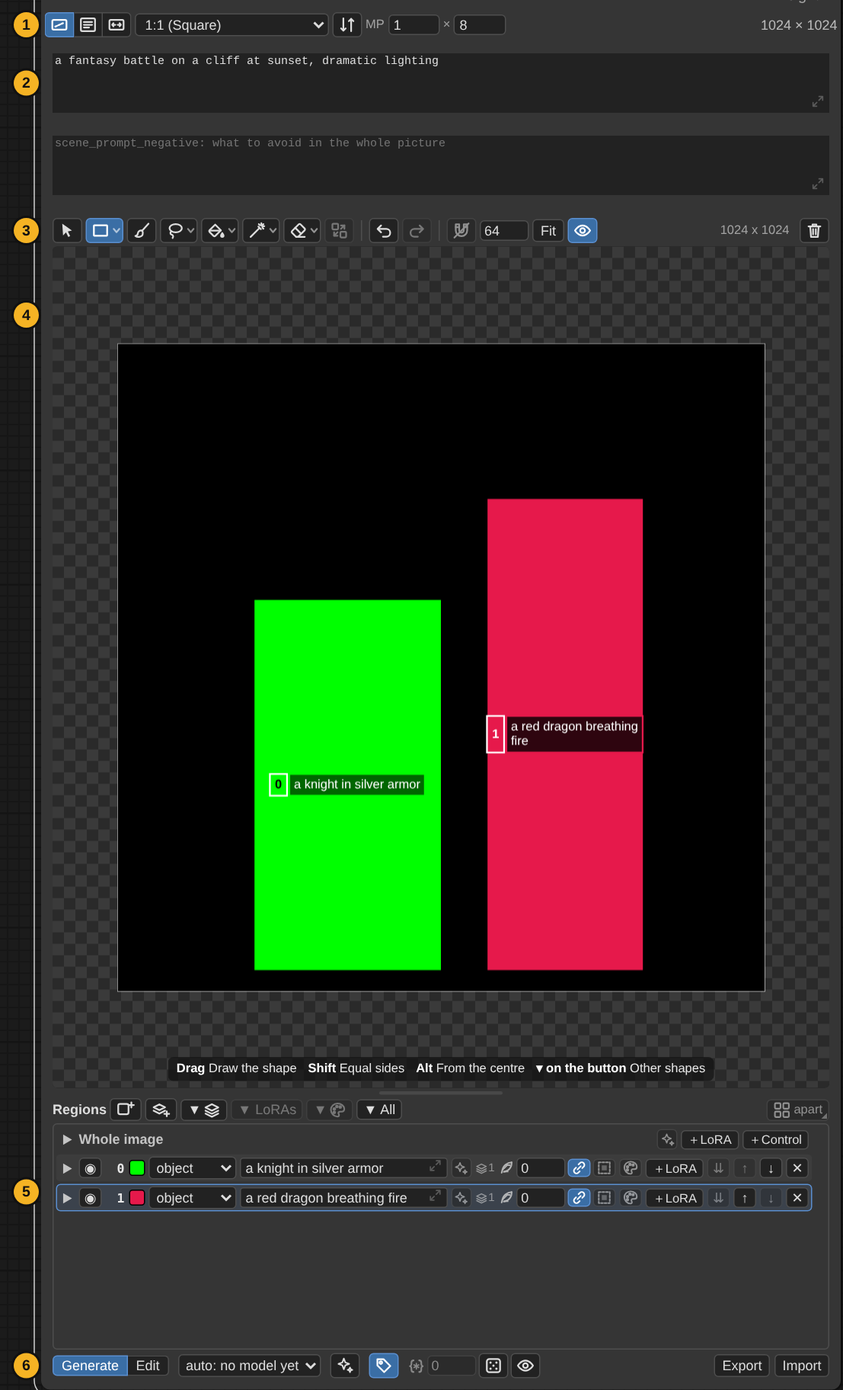
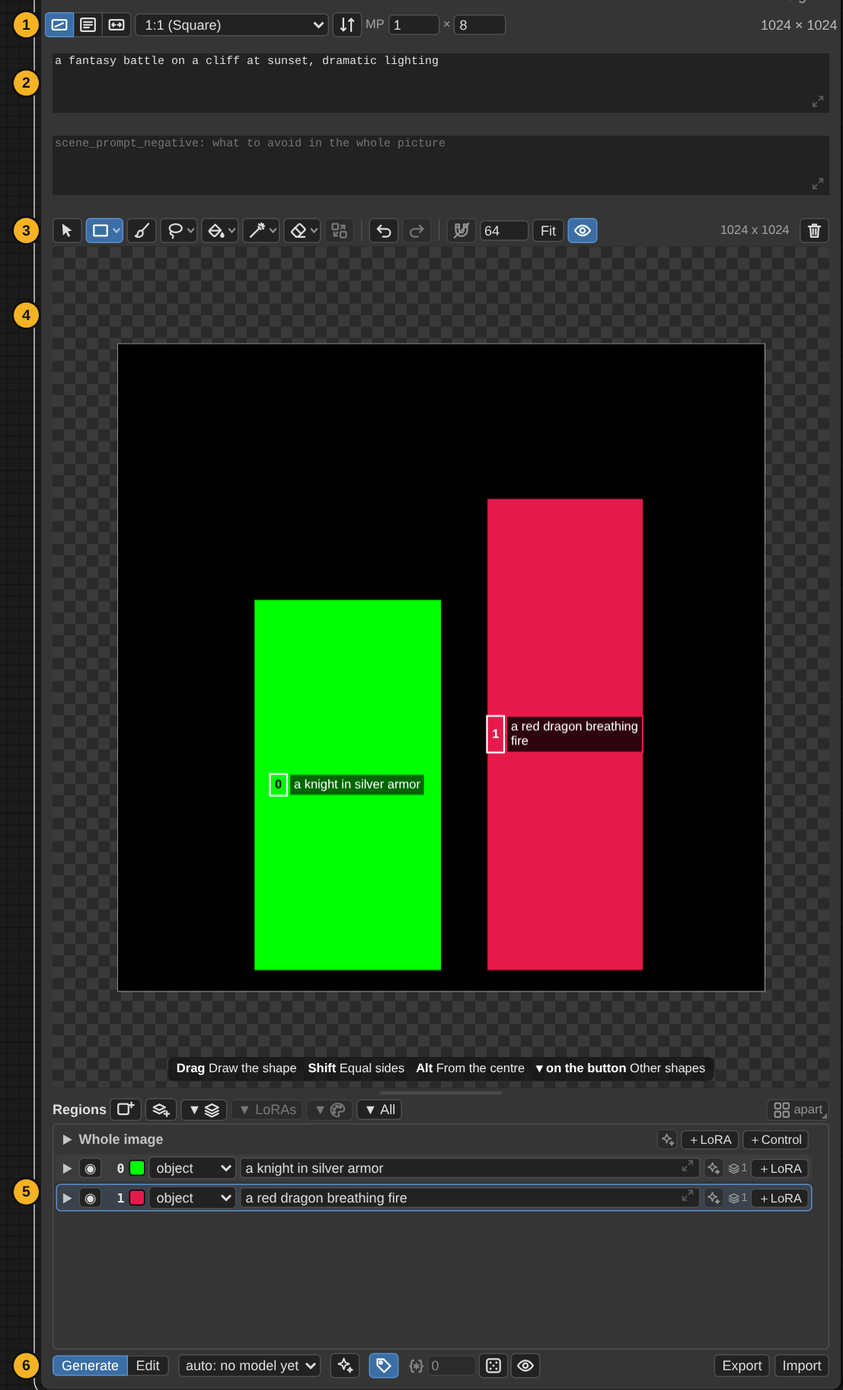
Region rows: room for the prompt; the rest on an options line in the opened region (0.29.0)
Layout B, chosen by the owner from three mock-ups:
- a region's row keeps show / hide, number, color, type, prompt, LLM, keep /
  Control switch, layer count and ＋LoRA; the prompt gets about twice the width
- feather, palette, merge, move and delete are on the options line that opens
  with the region's arrow, above its layers
- every region can be opened, also one without layers; All opens every region
- tests/ui_region_rows.cjs; manual, help page and its picture

Claude-Session: https://claude.ai/code/session_01B5U1gpBZHxaHUVoHyaNrX1

Changed region(s): [[0.7986, 0.8125, 0.9521, 0.875], [0.645, 0.8125, 0.7678, 0.875], [0.5221, 0.8125, 0.6143, 0.875]]

diff --git a/js/editor/llm.js b/js/editor/llm.js
@@ -257,7 +257,9 @@ export function* llm(E) {
                 : "Show / hide this region: A hidden region is not drawn and is left out of every output; its layers keep their own show / hide",
                 () => E.change(() => { if (r.hidden) delete r.hidden; else r.hidden = true; }));
             eye.classList.add("rg-reye");
-            row.append(E.chevron(r.id, kinds.length > 0, "this region's " + (kinds.map((k) => ({ layers: "layers", loras: "LoRAs", palette: "palette" })[k]).join(", ") || "layers")), eye, ix, sw, ty, prWrap);
+            // ▶ opens the region: its options line (feather, palette, merge, move, delete), then its layers, LoRAs, palette
+            row.append(E.chevron(r.id, true, "this region's options (feather, palette, merge, move, delete)"
+                + kinds.map((k) => ", " + ({ layers: "layers", loras: "LoRAs", palette: "color palette" })[k]).join("")), eye, ix, sw, ty, prWrap);
             E.addExpandButton(pr, "Open this region in the pop-up editor", openPop("prompt", pr));
             if (r.type === "text") {
                 // text to render: grows while edited, like the prompt (Shift+Enter = new line)
@@ -291,10 +293,17 @@ export function* llm(E) {
                 if (E.curRegion === r.id) E.curRegion = E.state.regions[0]?.id ?? null;
                 if (!E.selLayer()) E.selId = null;
             }));
-            row.append(llmButton(r.id), ...(E.isEdit() ? [E.keepToggle(r)] : []), ...(E.controls().length ? [E.controlToggle(r)] : []), cnt, E.featherBox(r), E.paletteToggle(r), addL,
-                       mergeAll, up, down, del);
+            // the row itself keeps what is used all the time, so the prompt gets the room (round 34); the rest is on
+            // the options line of the opened region
+            row.append(llmButton(r.id), ...(E.isEdit() ? [E.keepToggle(r)] : []), ...(E.controls().length ? [E.controlToggle(r)] : []), cnt, addL);
             E.regList.appendChild(row);
-            if (kinds.length && E.expanded.has(r.id)) {
+            if (E.expanded.has(r.id)) {
+                const opts = E.el("div", "rg-row opts"), gap = E.el("span"); gap.style.flex = "1 1 auto";
+                const fBox = E.featherBox(r), pal = E.paletteToggle(r);
+                const word = (text, forEl) => { const w = E.el("span", "rg-hint rg-word"); w.textContent = text; w.title = forEl.title || forEl.querySelector?.("[title]")?.title || ""; return w; };
+                opts.append(word("feather", fBox), fBox, word("palette", pal), pal, gap, mergeAll, up, down, del);
+                opts.addEventListener("pointerdown", (e) => { if (e.target === opts || e.target === gap) pick(); });
+                E.regList.appendChild(opts);
                 for (const k of kinds) {
                     E.regList.appendChild(E.subHeader(r, k));
                     if (!E.subOpen.has(`${r.id}:${k}`)) continue;

diff --git a/js/editor/style.js b/js/editor/style.js
@@ -150,6 +150,9 @@ button.rg-sw.pick:hover { outline:1px solid #5b8fd0; }
 .rg-row.lvl1 { margin-left:24px; }
 .rg-row.sub { margin-left:20px; gap:4px; padding-top:0; padding-bottom:0; min-height:18px; font-size:11px; cursor:pointer; opacity:.9; }
 .rg-row.sub:hover { background:rgba(255,255,255,.05); }
+.rg-row.opts { margin-left:20px; gap:4px; padding-top:1px; padding-bottom:1px; min-height:22px; font-size:11px; }
+.rg-row.opts .rg-word { margin-left:4px; }
+.rg-row.opts .rg-word:first-child { margin-left:18px; }
 .rg-subname { user-select:none; }
 .rg-subbody .rg-row.lvl1, .rg-subbody .rg-row.lora, .rg-subbody .rg-row.pal { margin-left:38px; }
 .rg-subbody .rg-trig { margin-left:60px; }

diff --git a/js/editor/list.js b/js/editor/list.js
@@ -89,6 +89,7 @@ export function* list(E) {
     function kindTargets(kind) {
         const out = [];                                // [rowKey, subKey or null]
         for (const r of E.state.regions) {
+            if (kind === "all") out.push([r.id, null]);        // every region has its options line, also without layers
             for (const k of subKinds(r)) if (kind === "all" || kind === k) out.push([r.id, `${r.id}:${k}`]);
         }
         if ((kind === "loras" || kind === "all") && (E.state.sceneLoras || []).length) out.push([E.SCENE, null]);

diff --git a/docs/region-genie.md b/docs/region-genie.md
@@ -20,14 +20,15 @@ Paint regions of any shape on the node's canvas, one flat color per region with 
 
 **Canvas: layers and regions**
 - **Canvas or list, more room:** drag the bar between the canvas and the region list (it lights up when you point at it) to make the list taller or shorter; the canvas takes the rest, and the node keeps its size. Each node keeps its own split; double-click the bar for the usual list height.
-- **The region list** (under the canvas) is the output. The number left of each swatch is the region's output index: the `index` to use in Mask Picker or BBoxes to Masks, and its position in every output. Regions without visible pixels show "–" and are left out, so the numbers below them shift. Each region has a color, a type (object, character or text, plus the text to render; that field grows while you edit it too, Shift+Enter for a new line) and a prompt. The list order is the output order and the stacking order: ↑ ↓ move a region and its layers (the top region is in front; holes keep their place). Click a region's swatch to change its color (display only). The prompt field expands while you edit it; Enter finishes. The small **⤢** button in a prompt's (or text's) bottom-right corner opens the region's pop-up editor next to its row; double-click selects a word, as in any text field. Click a region to make it active: new shapes, paint and fills use it. A layer turned into a hole (✂ on its row) cuts a black hole through the layers below it.
+- **The region list** (under the canvas) is the output. The number left of each swatch is the region's output index: the `index` to use in Mask Picker or BBoxes to Masks, and its position in every output. Regions without visible pixels show "–" and are left out, so the numbers below them shift. Each region has a color, a type (object, character or text, plus the text to render; that field grows while you edit it too, Shift+Enter for a new line) and a prompt. The list order is the output order and the stacking order: ↑ ↓ (on the region's options line, see *Opening a region*) move a region and its layers (the top region is in front; holes keep their place). Click a region's swatch to change its color (display only). The prompt field expands while you edit it; Enter finishes. The small **⤢** button in a prompt's (or text's) bottom-right corner opens the region's pop-up editor next to its row; double-click selects a word, as in any text field. Click a region to make it active: new shapes, paint and fills use it. A layer turned into a hole (✂ on its row) cuts a black hole through the layers below it.
 - **Show / hide a region:** the ◉ / ○ button before a region's number. A hidden region isn't drawn and is left out of every output (masks, prompt, LoRAs, the color map, Edit Mode's mask), as if it had no pixels; its row is dimmed and its number shows "–". Its layers keep their own ◉ settings, so showing it again brings it back exactly as it was. Drawing into a hidden region (or adding a selection to it) shows it again.
-- **Collapsing the list:** each region's ▶ chevron opens it, showing its subsections: **Layers**, **LoRAs** and **Color palette** (only the ones it has). Each subsection has its own ▶ and starts closed; closing the region hides all of them. The *Whole image* row opens with a click anywhere on it (except its sparkle and ＋LoRA buttons) and shows its LoRAs, or a hint when it has none. The ▼ buttons above the list (▼ + layers icon, ▼ LoRAs, ▼ + palette icon) open or close that subsection in every region at once (LoRAs includes *Whole image*), and "▼ All" opens or closes everything. Adding a LoRA or turning a palette on opens its subsection; selecting a layer on the canvas opens its region's layers.
-- **Layers** are the things you draw. Each layer row has: ◉ show/hide, **✂ hole** (on: the layer cuts its area out of every layer below it, so no region is there; black in `color_map`. It stays listed under its region, with a striped swatch, and is drawn striped on the canvas; ✂ again makes it paint its region again), ▲▼ move within the region (holes move one step through the whole stack, so they cut what is below them), ⧉ duplicate (Ctrl+D; the copy lands exactly on the original and is named "… copy", then "… copy (2)", "… copy (3)" …; right-click ⧉ to duplicate into another region instead: the copy keeps its place and shape, takes that region's color and goes on top of its layers), ⤓ merge down, ⇄ move to another region, ⌫ erase its contents, 🗑 delete. ⇊ on a region merges all of its visible layers. **Ctrl+C / Ctrl+X / Ctrl+V** copy, cut and paste the selected layer (click the canvas first so it has the keyboard): a pasted layer lands on top of the active region's layers, in the same place (with no active region, back in its own region). It also pastes into another Region Genie node. With no layer selected, Ctrl+C / Ctrl+V do ComfyUI's usual node copy and paste. Selecting a layer on the canvas opens its region. Only visible pixels inside the image reach `masks`, `bboxes` and `color_map`.
+- **A region's row** holds what is used all the time: show / hide, its number, color, type, the prompt (which gets most of the row), the LLM button, the layer count and ＋LoRA; in Edit Mode also keep / change, and with a Control row its Control switch.
+- **Opening a region:** each region's ▶ chevron opens it. First comes its **options line**: **feather** (the value, the chain that links it and the dashed square for edges on the image border), **palette** (on / off), then on the right ⇊ merge its layers, ↑ ↓ move the region, and ✕ delete it with its layers (Ctrl+Z brings it back). Under it are its subsections: **Layers**, **LoRAs** and **Color palette** (only the ones it has). Each subsection has its own ▶ and starts closed; closing the region hides all of them. The *Whole image* row opens with a click anywhere on it (except its sparkle and ＋LoRA buttons) and shows its LoRAs, or a hint when it has none. The ▼ buttons above the list (▼ + layers icon, ▼ LoRAs, ▼ + palette icon) open or close that subsection in every region at once (LoRAs includes *Whole image*), and "▼ All" opens or closes everything. Adding a LoRA or turning a palette on opens its subsection; selecting a layer on the canvas opens its region's layers.
+- **Layers** are the things you draw. Each layer row has: ◉ show/hide, **✂ hole** (on: the layer cuts its area out of every layer below it, so no region is there; black in `color_map`. It stays listed under its region, with a striped swatch, and is drawn striped on the canvas; ✂ again makes it paint its region again), ▲▼ move within the region (holes move one step through the whole stack, so they cut what is below them), ⧉ duplicate (Ctrl+D; the copy lands exactly on the original and is named "… copy", then "… copy (2)", "… copy (3)" …; right-click ⧉ to duplicate into another region instead: the copy keeps its place and shape, takes that region's color and goes on top of its layers), ⤓ merge down, ⇄ move to another region, ⌫ erase its contents, 🗑 delete. ⇊ on a region's options line merges all of its visible layers. **Ctrl+C / Ctrl+X / Ctrl+V** copy, cut and paste the selected layer (click the canvas first so it has the keyboard): a pasted layer lands on top of the active region's layers, in the same place (with no active region, back in its own region). It also pastes into another Region Genie node. With no layer selected, Ctrl+C / Ctrl+V do ComfyUI's usual node copy and paste. Selecting a layer on the canvas opens its region. Only visible pixels inside the image reach `masks`, `bboxes` and `color_map`.
 - **LoRAs** (MOSS-Image, Krea 2, Ideogram 4, Flux, Anima, SDXL / SD1.5): "＋LoRA" on a region adds a LoRA that acts only inside that region; "＋LoRA" on *Whole image* adds one for the whole picture: it is merged into the model exactly like a Load LoRA (model only) node placed before the `model` input, so it costs no time while sampling and works with any model. Each LoRA row has on/off, the LoRA (ComfyUI's list menu, so Easy-Use / rgthree folder nesting works), strength and ✕. Its **trigger words** are shown as chips, read from the files model managers save next to the LoRA (`.cm-info.json` "TrainedWords", `.civitai.info`, LoRA Manager `.metadata.json`, A1111 `.json`, or the file's own metadata; the chip's tooltip names the file): click a chip to add it to the region's prompt (whole-image LoRAs: to `scene_prompt_positive`). A ✓ chip is already in the prompt.
-- **Feather** (the feather icon on each region row): softens the region's mask edges by that many pixels, in `masks` and for its LoRAs, like Mask Picker's feather (default 0). The chain button links the value: all linked regions share one value; unlink a region to give it its own. The dashed-square button is that region's `feather_canvas_edges`: off (default) keeps edges on the image border solid, on fades them too. Connect `model` (and `clip`) and use the `model` output for the sampler: see [LoRAs per region](regional-loras.md).
+- **Feather** (on the region's options line: open the region with ▶): softens the region's mask edges by that many pixels, in `masks` and for its LoRAs, like Mask Picker's feather (default 0). The chain button links the value: all linked regions share one value; unlink a region to give it its own. The dashed-square button is that region's `feather_canvas_edges`: off (default) keeps edges on the image border solid, on fades them too. Connect `model` (and `clip`) and use the `model` output for the sampler: see [LoRAs per region](regional-loras.md).
 - **Colors** are picked with a built-in color picker like the one in Create Bounding Boxes (saturation/brightness square, hue bar, Hex / RGB / HSL fields); it works the same in legacy nodes and Nodes 2.0. Changes show live; click outside, press Esc or Enter to close it. A whole pick is one undo step. The copy button copies the color in the chosen format (`#4ecb8d`, `rgb(78, 203, 141)` or `hsl(150, 55%, 55%)`); the paste button (or Ctrl+V while the picker has focus) reads a color in any of those formats, CSS color names, or three plain numbers. If the browser blocks reading the clipboard, the picker asks you to press Ctrl+V instead.
-- **Color palette** (the palette icon, between feather and ＋LoRA; off by default): turns on a row of up to 5 colors under the region, like MOSS-Image's `palette` and Ideogram's `color_palette`. "+" adds a white swatch in its place ("+" moves right, or hides at 5 colors) and opens the color picker on it; closing the picker without changing it keeps the white swatch. Click a color to change it, right-click to remove it. The region is then shown in its **first palette color** everywhere: on the canvas, in the list and in `color_map`. When that color is the same as (or very close to) black or another region's color, it is lightened or darkened a little so every region stays distinguishable. The palette goes into `elements` (`color_palette`), `bboxes` (`palette`), the MOSS JSON `prompt` (`palette`, exactly as MOSS-Image Layout Prompt writes it) and the Ideogram JSON `prompt`, and Import reads it back. Turning the palette off keeps its colors for later.
+- **Color palette** (the palette icon on the region's options line; off by default): turns on a row of up to 5 colors under the region, like MOSS-Image's `palette` and Ideogram's `color_palette`. "+" adds a white swatch in its place ("+" moves right, or hides at 5 colors) and opens the color picker on it; closing the picker without changing it keeps the white swatch. Click a color to change it, right-click to remove it. The region is then shown in its **first palette color** everywhere: on the canvas, in the list and in `color_map`. When that color is the same as (or very close to) black or another region's color, it is lightened or darkened a little so every region stays distinguishable. The palette goes into `elements` (`color_palette`), `bboxes` (`palette`), the MOSS JSON `prompt` (`palette`, exactly as MOSS-Image Layout Prompt writes it) and the Ideogram JSON `prompt`, and Import reads it back. Turning the palette off keeps its colors for later.
 - **Tools** (icons in the bar above the canvas; hover for names and shortcuts). The add-region button (a box with a plus, in the list header) switches to the Rectangle tool, so you can draw the new region's box right away; its color is picked to look as different as possible from the regions already there. The add-layer button (stacked sheets with a plus) adds an empty layer on top of the active region's layers (brush, lasso and fill then paint into it); with no active region it does nothing. A region's label sits at the centre of the pixels that region really shows.
   - **The tool buttons:** the ones with versions show the version in use, with a **▾** on their right: click the icon to use it, click ▾ (or right-click the button) for the list. **Shape** lists the shapes, **Lasso** and **Fill** their versions, **Magic wand** also holds **Select object**, and **Eraser** also holds the three **Lasso erase** versions. The keyboard shortcuts pick a tool from a list directly (R / O / T, L, F, W, Q, E, Shift+L) and the button follows. Options of the tool in use (star points, corner radius, fill gap, wand tolerance, Select object's find field and ✓ / ✕) show in a small strip in the canvas's top-left corner, so the row of tools never changes width.
   - Select (V): click to select (clicking anywhere outside the canvas hides the box and handles; the layer stays selected, so brush, lasso and fill still paint into it), drag to move, square handles resize (Shift keeps proportions; **Alt** resizes from the centre, so the opposite side moves the same amount the other way; both can be held together), the round handle rotates (Shift snaps to 15°).

diff --git a/docs/HANDOFF.md b/docs/HANDOFF.md
@@ -1,6 +1,6 @@
 # Region Genie (ComfyUI node pack): handoff summary
 
-**State (Nov 17, 2026):** version 0.28.0 (`pyproject.toml`), GPL-3.0. The GitHub repository is the source of truth; work happens on branches and reaches `main` through pull requests the owner merges. The history of every development round is in `docs/CHANGELOG.md`; this file describes the pack as it is now.
+**State (Nov 17, 2026):** version 0.29.0 (`pyproject.toml`), GPL-3.0. The GitHub repository is the source of truth; work happens on branches and reaches `main` through pull requests the owner merges. The history of every development round is in `docs/CHANGELOG.md`; this file describes the pack as it is now.
 
 The pack used to be called **Regional Mask Kit** (renamed Nov 10, 2026). The compatibility code for the old names was removed in round 24 (section 7).
 
@@ -176,7 +176,7 @@ The reasons behind the parts a new session is most likely to trip over. Each end
 
 ### First-use help (round 33, the first of four UX batches)
 
-The owner asked for a UI / UX review (new users, regular users, look and feel) and chose the order: quick wins, region row declutter, then region names / drag reorder / colours / theme, then a large editor mode. Each batch has its own branch (`claude/ux-1-quick-wins` …), stacked. Mock-ups go to the owner before the row declutter and the large editor are built. Still open from that review: batches 2 to 4, the pack's own tooltip in place of the browser's, a shortcut sheet, a right-click menu on the canvas, the node's default height (700 × 1475).
+The owner asked for a UI / UX review (new users, regular users, look and feel) and chose the order: quick wins, region row declutter, then region names / drag reorder / colours / theme, then a large editor mode. Each batch has its own branch (`claude/ux-1-quick-wins` …), stacked. Mock-ups go to the owner before the row declutter and the large editor are built. Still open from that review: batches 3 and 4, the pack's own tooltip in place of the browser's, a shortcut sheet, a right-click menu on the canvas, the node's default height (700 × 1475).
 
 - **Hints on the canvas** (`syncTips`, js/editor/canvasUi.js): `.rg-tips` along the canvas's bottom edge lists the active tool's keys and gestures (`TIPS`, one function per tool, so Select differs with and without a selected layer and Fill by version); `.rg-start` shows three first steps while there is no layer and no region. Both have `pointer-events:none`; `.rg-cv.held` (a button held on the canvas) fades the tips and hides the card. One Setting turns both off for every node at once (`hintsListeners` in rg_shared.js). The texts are not tooltips, but follow the tooltip rules' capital after the key. When a tool's gestures change, change its `TIPS` entry and `tests/ui_hints_notes.cjs`.
 - **Run notes** (`setRunInfo`, js/editor/rows.js): Python already sent `region_info` to the editor with every run (`ui["region_info"]`); the editor now keeps it. A button left of Export shows `⚠ n` (n = lines starting with `NOTE:`) or `ⓘ`, and a click shows the notes first, then the rest, in the message bar (`showMsg(text, true)`; amber with notes, blue without). The bar is shared with Select object errors and missing control files, so picking a tool closes it. A new warning from Python needs the `NOTE:` prefix to be counted.
@@ -185,6 +185,15 @@ The owner asked for a UI / UX review (new users, regular users, look and feel) a
 - **Words** where an icon can't say it (the owner's choice, next to "separation" / "until"): `rowWord()` puts "strength" / "steps" before the bare numbers of Control, Edit and LoRA rows; the keep-all-regions-apart button says "apart" (class `rg-apart`).
 - **Clear all** is the toolbar's last button (class `danger`, red on hover), away from Undo / Redo.
 - **Scene prompt placeholders** are set on the text box in the `autocompleteWidgets` callback (core.js), in English only: legacy nodes show "name: what it is for", Nodes 2.0 (which has the name as a label) only the second part.
+
+### Region rows (round 34, UX batch 2)
+
+The owner chose layout B from three mock-ups (a ⋯ menu; inside the opened region; a second line on the active region), with ✕ only among the moved controls. The owner first asked how a region becomes active, then chose B over C, so nothing in the row depends on which region is active.
+
+- A region's row (`renderRegions`, js/editor/llm.js): ▶, show / hide, number, color, type, prompt (and text), LLM, keep (Edit Mode), Control switch (with a Control row), layer count, ＋LoRA. The prompt went from 182 to about 400 px at the default node width.
+- The **options line** (`.rg-row.opts`) is the first thing in an opened region: the words "feather" and "palette" with `featherBox(r)` and `paletteToggle(r)`, then ⇊ merge, ↑ ↓ move, ✕ delete on the right. Every region can be opened now (`chevron(r.id, true, …)`), also one without layers, and "▼ All" opens every region (`kindTargets("all")` adds each region's row).
+- Nothing about the data changed, and the pop-up region editor still has feather, palette and LoRAs.
+- `tests/ui_region_rows.cjs` checks the row, the line and that its controls work. The stub node's image is 256 px wide: test coordinates must stay inside it.
 
 ## 5. Open items and offered ideas
 

diff --git a/docs/CHANGELOG.md b/docs/CHANGELOG.md
@@ -2,6 +2,13 @@
 
 Each round is one request from the owner: what was asked, what was decided (and by whom), what was built and how it was tested. Later rounds sometimes reverse earlier ones; `docs/HANDOFF.md` section 4 has the current design. Test file names are the current ones (renamed by subject in round 24; e.g. `real_comfy12.cjs` is now `real_fields_popups.cjs`).
 
+## Round 34 (Nov 19): UX batch 2, region rows with room for the prompt
+- Asked for: the region row declutter, with mock-ups first.
+- Mock-ups (made from the real node with its DOM rearranged): A, a ⋯ menu on each row; B, the moved controls on a line inside the opened region; C, a second line on the active region. The owner asked how a region becomes active (prompt, text, number, color, layer count, empty space, a layer picked on the canvas: yes; type, show / hide, ▶, LLM, ＋LoRA: no) and then chose **B**, with ✕ only among the moved controls.
+- Built (branch `claude/ux-2-row-declutter`, on top of batch 1): the row keeps show / hide, number, color, type, prompt, LLM, keep / Control switch, layer count and ＋LoRA; feather, palette, merge, move and delete are on the options line that opens with ▶. Every region can be opened, also one without layers; "▼ All" opens every region. The prompt field is about 400 px wide at the default node width (was 182).
+- Manual: *A region's row* and *Opening a region* in region-genie.md; the help page and its picture.
+- Tests: `tests/ui_region_rows.cjs` (new, in run_ui.sh). run_py, run_ui; real ComfyUI: real_tooltips, real_fields_popups, real_smoke, real_run_wildcards in both modes. Version 0.29.0.
+
 ## Round 33 (Nov 19): UI / UX review; batch 1, first-use help
 - Asked for: an assessment of the Region Genie node's UI and UX (friction for new users, efficiency for regular users, look and feel), then to pursue the suggestions in the order 1 (quick wins), 2 (region row declutter), 4 (region names, drag reorder, colours, theme), 3 (large editor mode), on separate branches, with mock-ups before the declutter and the large editor.
 - The review (screenshots of a fresh and a populated node in both modes, the manual, the code): nothing on a fresh node says what to do first; the node (700 × 1475) is taller than a 1080 px screen at 100 %; explanations live only in browser tooltips; many gestures are hidden; some controls are cryptic; run notes only reach `region_info`; a region row has eleven controls after a prompt that gets about 30 % of the width; shortcuts went to ComfyUI unless the pointer was over the canvas; Clear all sat next to Redo looking like a layer's delete; icons mix drawn and text glyphs; fixed greys ignore themes.

diff --git a/tests/README.md b/tests/README.md
@@ -5,7 +5,7 @@ None of these need a GPU. Screenshots go to `tests/out/` (not committed).
 | What | How | Needs |
 |---|---|---|
 | Python, stubbed (`test_edit_mode.py`, `test_shapes_import.py`, `test_hidden_regions.py`, `test_prompt_format.py`, `test_save_image.py`, `test_model_paths.py`: model files by full path, the folder browser's listing; `test_i18n.py`: every language in `locales/` against the English reference `tests/i18n_en/`) | `bash tests/run_py.sh` | numpy, Pillow, scipy |
-| Editor in a stub page (`ui_*.cjs`; `ui_hints_notes.cjs`: the hints on the canvas, the start card, Clear all, the run-notes button, shortcuts over the whole editor) | `bash tests/run_ui.sh` | Node, `npm i -D playwright`, `npx playwright install chromium` |
+| Editor in a stub page (`ui_*.cjs`; `ui_hints_notes.cjs`: the hints on the canvas, the start card, Clear all, the run-notes button, shortcuts over the whole editor; `ui_region_rows.cjs`: the short region row and the options line of an opened region) | `bash tests/run_ui.sh` | Node, `npm i -D playwright`, `npx playwright install chromium` |
 | Control against real ComfyUI code (`test_control.py`): MOSS / Flux.1 / ControlNet / Anima paths, maps, region masks | `COMFY_DIR=… python3 tests/test_control.py` | a ComfyUI checkout and torch (no model files) |
 | Select object against real ComfyUI code (`test_select.py`) | see below | a ComfyUI checkout, torch, the SAM 3.1 checkpoint (or the random-weight fixture) |
 | Smoke test in the real ComfyUI frontend (`real_smoke.cjs [vue]`) | see below | a running ComfyUI with this pack in `custom_nodes` |

diff --git a/js/docs/Region-Genie_Main.md b/js/docs/Region-Genie_Main.md
@@ -23,7 +23,8 @@ node outputs the model, the encoded prompts and the latent, plus masks, boxes an
 4. **Canvas**: the image area sits in a checkered margin. The line along its bottom edge shows the keys and gestures
    of the tool in use.
 5. **Regions**: one row per region, with its number (the `index` other nodes use), color, type and prompt. The
-   arrow at the start of a row shows its layers and LoRAs. *Whole image* holds LoRAs and Control for the whole picture.
+   arrow at the start of a row opens it: feather, palette, merge, move and delete, then its layers and LoRAs.
+   *Whole image* holds LoRAs and Control for the whole picture.
 6. **Bottom bar**: Generate / Edit, the model, the LLM Prompt Enhancer, tag autocomplete, the wildcard seed, and
    Export / Import. After a run, a button here shows what the run reported, with a ⚠ when something needs attention.
 

diff --git a/docs/HARDWARE-CHECKLIST.md b/docs/HARDWARE-CHECKLIST.md
@@ -101,3 +101,7 @@ Check once in legacy mode and once in Nodes 2.0.
 - After a real run: the button left of Export shows ⚠ with the number of notes (try a run without `clip`), and a click lists them under the canvas.
 - Node Info on a selected Region Genie node shows the guide and its picture.
 - R, V, B pressed while pointing at the toolbar or the region list pick the tool (and no longer trigger ComfyUI's own shortcuts).
+
+## 12. Region rows (round 34)
+
+- On the 4K display, both node modes: a region's prompt gets most of its row; ▶ opens the region to its options line (feather, palette, merge, move, delete) above its layers; feather and the palette set there act on the run as before.
